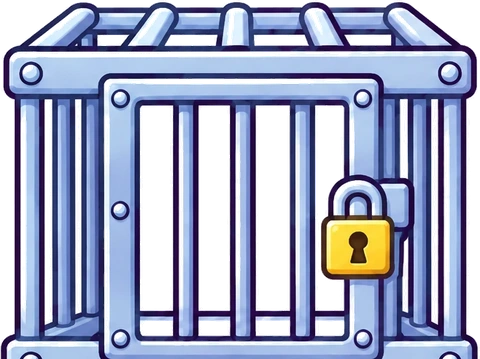
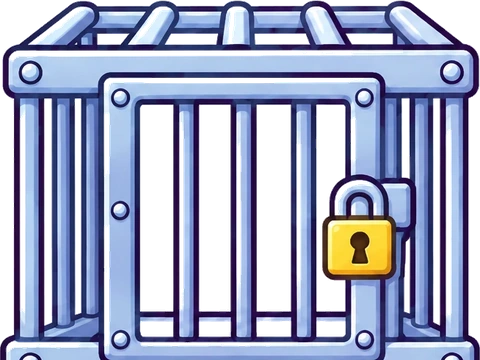
物語:家は白をまぜて明るく・檻は全体を同じようにすかす・札の数字を巻物のふちに・門を少し下(未公開)

Changed region(s): [[0.0, 0.0, 1.0, 1.0], [0.2188, 0.5515, 0.2812, 0.6128]]

diff --git a/src/live2d/storyboard.js b/src/live2d/storyboard.js
@@ -34,7 +34,7 @@ export const PROLOGUE = { id: 'pro', code: 'P', label: 'プロローグ', scenes
     foes: [{ art: 'dragon_2', frames: DRAGON_FLY, fps: 4, h: 30, hTo: 14, from: [26, 14], to: [-30, -12], flip: false }],
     actors: { papa: A(11, { s: BACK, y: BACKY, ...SURPRISE, faces: HOLD('surprised'), cues: [CUE('wave', 0.2, 2.6)], to: { x: -24, y: 78, s: 0.3 } }), mama: A(38, { s: BACK, y: BACKY, ...SURPRISE, faces: HOLD('surprised'), cues: [CUE('wave', 0.2, 2.6)], to: { x: -34, y: 74, s: 0.3 } }), flori: A(74, { s: 1.1, mood: 'しょんぼり', anim: 'sway', calm: true, faces: HOLD('wrong') }) } },
   { bgm: 'sad', dur: 6.4, bg: 'castle', lines: [L('パパフロリ', 'フロリ助けてくれ〜!', 0), L('ママフロリ', 'ひらめきの力を信じてネ!', 3.2)],
-    marks: [{ art: 'fx_cage', alpha: 0.75, at: 0, to: 99, x: 65, y: 88, h: 32, still: true }],
+    marks: [{ art: 'fx_cage', alpha: 0.55, at: 0, to: 99, x: 65, y: 88, h: 32, still: true }],
     actors: { papa: A(55, { y: 0, s: 0.4, mood: 'しょんぼり', faces: HOLD('wrong'), cues: [CUE('wave', 0.5, 2.6)] }), mama: A(75, { y: 6, s: 0.4, mood: 'しょんぼり', faces: HOLD('wrong'), cues: [CUE('wave', 1.2, 2.6)] }) } },
   { bgm: 'resolve', dur: 4.8, bg: 'dusk', lines: [L('フロリ', '任せて! ひらめきクイズでドラゴンを倒してパパとママを助けるヨ!')], hops: HOPS(4, 0.3, 1.2),
     actors: { flori: A(50, { s: 1.6, ...BRAVE, cues: [CUE('cheer', 0.3, 2.6)] }) } },
@@ -82,16 +82,16 @@ export const EP2 = { id: 'ep2', code: '②', label: '②カエル', scenes: [
 ] };
 
 export const EP3 = { id: 'ep3', code: '③', label: '③決戦前', scenes: [
-  { bgm: 'alarm', dur: 6.6, bg: 'gate', card: 'card_ep3', props: [['deco_gate', 51, null, 40, { ground: 17, w: 34 }]], lines: [L('', '第3話「決戦の前に」\nお城の門の前にサソリの門番が塞がっている!')],
+  { bgm: 'alarm', dur: 6.6, bg: 'gate', card: 'card_ep3', props: [['deco_gate', 51, null, 40, { ground: 15, w: 34 }]], lines: [L('', '第3話「決戦の前に」\nお城の門の前にサソリの門番が塞がっている!')],
     foes: [{ art: 'scorpion_guard', frames: ['scorpion_guard', 'scorpion_claws_up'], fps: 2, h: 16, ground: true, delay: 3.0, from: [124, 0], to: [70, 0] }],
     marks: [{ art: 'fx_exclaim', at: 4.4, to: 6.4, x: 28, y: 44, h: 14 }], actors: { flori: A(-40, { s: 1.2, walk: true, delay: 1.6, to: { x: 28 }, faces: [{ at: 0, to: 4.4 }, { at: 4.4, pose: 'surprised' }], cues: [CUE('raise', 4.4, 2.4)], anim: 'shock', animAt: 4.4 }) } },
-  { bgm: 'battle', dur: 4.2, bg: 'gate', props: [['deco_gate', 51, null, 40, { ground: 17, w: 34 }]], lines: [L('フロリ', 'ひらめきを全部ぶつけて… えいっ!')],
+  { bgm: 'battle', dur: 4.2, bg: 'gate', props: [['deco_gate', 51, null, 40, { ground: 15, w: 34 }]], lines: [L('フロリ', 'ひらめきを全部ぶつけて… えいっ!')],
     foes: [{ art: 'scorpion_guard', art2: 'scorpion_hit', swapAt: 1.4, hold: 1.4, h: 16, ground: true, from: [70, 0], to: [118, 0] }], flash: 1.4, shake: [1.4, 0.7], hops: [{ at: 1.2, who: 'flori' }],
     marks: [{ art: 'fx_impact', at: 1.3, to: 2.1, x: 62, y: 80, h: 22 }],
     actors: { flori: A(28, { s: 1.2, ...GRIT, faces: [{ at: 0 }], walk: true, to: { x: 42 } }) } },
-  { bgm: 'joy', dur: 5.4, bg: 'gate', props: [['deco_gate', 51, null, 40, { ground: 17, w: 34 }]], lines: [L('フロリ', 'やった! サソリを追い払ったヨ!', 0), L('フロリ', 'さあお城の奥に進もう!', 2.8)],
+  { bgm: 'joy', dur: 5.4, bg: 'gate', props: [['deco_gate', 51, null, 40, { ground: 15, w: 34 }]], lines: [L('フロリ', 'やった! サソリを追い払ったヨ!', 0), L('フロリ', 'さあお城の奥に進もう!', 2.8)],
     actors: { flori: A(42, { s: 1.2, ...JOY, faces: [{ at: 0, to: 2.8, pose: 'smile' }, { at: 2.8, pose: 'nikkori' }], cues: [CUE('cheer', 0.2, 2.6, 2.6), CUE('flap', 3.0, 2.6)], walk: true, to: { x: 62 } }) } },
-  { bgm: 'walk', dur: 5.4, bg: 'gate', props: [['deco_gate', 51, null, 40, { ground: 17, w: 34 }]], lines: [L('', '門の奥から、ぼうっと赤い光が…。フロリは、そっとお城の中へ進んでいく。')],
+  { bgm: 'walk', dur: 5.4, bg: 'gate', props: [['deco_gate', 51, null, 40, { ground: 15, w: 34 }]], lines: [L('', '門の奥から、ぼうっと赤い光が…。フロリは、そっとお城の中へ進んでいく。')],
     actors: { flori: A(62, { s: 1.2, ...SMILE, faces: HOLD('nikkori'), cues: [CUE('flap', 0.4, 2.6)], walk: true, to: { x: 46, s: 0.7 } }) } },
   { bgm: 'alarm', dur: 5, bg: 'castle', lines: [L('', '警告! お城の奥からドラゴンの声が響く…!')],
     foes: [{ art: 'dragon_5', h: 30, hTo: 46, from: [124, 26], to: [62, 24], flip: false, shake: true }], shake: [0.3, 1.4],
@@ -126,12 +126,12 @@ export const EP4 = { id: 'ep4', code: '④', label: '④ドラゴン', scenes: [
 
 export const ENDING = { id: 'epi', code: 'E', label: 'エンディング', scenes: [
   { bgm: 'warm', dur: 11.0, bg: 'castle', lines: [L('フロリ', 'パパ! ママ! お待たせ!', 0), L('パパフロリ', 'フロリ! 来てくれたんだね!', 3.8), L('ママフロリ', 'きっと来てくれると信じてたわ!', 7.4)],
-    marks: [{ art: 'fx_cage', alpha: 0.75, at: 0, to: 99, x: 65, y: 91, h: 32, still: true }],
+    marks: [{ art: 'fx_cage', alpha: 0.55, at: 0, to: 99, x: 65, y: 91, h: 32, still: true }],
     actors: { flori: A(-40, { s: 1.0, faces: [{ at: 0 }], cues: [CUE('expr', 0.4), CUE('wave', 1.8), CUE('expr', 4.9), CUE('flap', 6.2), CUE('expr', 8.8), CUE('wave', 9.6)], walk: true, len: 2.0, to: { x: 24 } }),
       papa: A(55, { y: 0, s: 0.4, mood: 'こまった', calm: true, faces: [{ at: 0, to: 3.8, pose: 'wrong' }, { at: 3.8, pose: 'smile' }] }),
       mama: A(75, { y: 0, s: 0.4, mood: 'こまった', calm: true, faces: [{ at: 0, to: 7.4, pose: 'wrong' }, { at: 7.4, pose: 'smile' }] }) } },
   { bgm: 'warm', dur: 7.0, bg: 'castle', lines: [L('フロリ', 'カギを手に入れたよ! 今から出すね!', 0), L('フロリ', 'えいっ! 檻が開いたヨ!', 4.2)],
-    marks: [{ art: 'fx_cage', alpha: 0.75, at: 0, to: 5.0, x: 65, y: 91, h: 32, still: true }],
+    marks: [{ art: 'fx_cage', alpha: 0.55, at: 0, to: 5.0, x: 65, y: 91, h: 32, still: true }],
     foes: [{ art: 'key', h: 9, ground: true, len: 3.2, until: 5.0, from: [30, 19], to: [38, 19] }],
     actors: { flori: A(18, { s: 0.9, faces: [{ at: 0 }], handSide: 'L', cues: [CUE('raise1', 0.2), CUE('expr', 4.0, 1.8)], walk: true, len: 3.2, to: { x: 26 } }),
       papa: A(55, { y: 0, s: 0.4, mood: 'こまった', calm: true, faces: HOLD('smile') }), mama: A(75, { y: 0, s: 0.4, mood: 'こまった', calm: true, faces: HOLD('smile') }) } },

diff --git a/src/live2d/story-movie.html b/src/live2d/story-movie.html
@@ -49,8 +49,7 @@ body{font:16px system-ui,"Hiragino Sans","Yu Gothic",sans-serif;user-select:none
 #card{display:none;position:absolute;left:50%;top:calc(var(--u)*12);width:84%;transform:translateX(-50%);opacity:0;z-index:4;filter:drop-shadow(0 calc(var(--u)*.6) calc(var(--u)*.8) rgba(0,0,0,.3))}
 #card-bg{display:block;width:100%;height:auto}
 #card-text{position:absolute;display:flex;flex-direction:column;align-items:center;justify-content:center;text-align:center;font-family:"Zen Maru Gothic","Hiragino Maru Gothic ProN","Yu Gothic UI",sans-serif;font-weight:900;gap:calc(var(--u)*.2);line-height:1.15}
-#card-no{display:flex;align-items:center;justify-content:center;gap:calc(var(--u)*1.2);white-space:nowrap;font-size:calc(var(--u)*8.2);letter-spacing:.08em;color:#ff7a4d;-webkit-text-stroke:calc(var(--u)*1.1) #fff;paint-order:stroke fill;text-shadow:0 calc(var(--u)*.5) 0 #c85a2a}
-#card-no::before,#card-no::after{content:"";flex:0 0 calc(var(--u)*5);height:calc(var(--u)*.9);border-radius:99px;background:#ff7a4d;box-shadow:0 0 0 calc(var(--u)*.35) #fff,0 calc(var(--u)*.45) 0 calc(var(--u)*.35) #c85a2a}
+#card-no{position:relative;top:calc(var(--u)*-5.2);white-space:nowrap;font-size:calc(var(--u)*8.2);letter-spacing:.08em;color:#ff7a4d;-webkit-text-stroke:calc(var(--u)*1.1) #fff;paint-order:stroke fill;text-shadow:0 calc(var(--u)*.5) 0 #c85a2a}
 #card-name{text-wrap:balance;font-size:calc(var(--u)*4.7);color:#6a3f22;-webkit-text-stroke:calc(var(--u)*.9) #fff;paint-order:stroke fill;text-shadow:0 calc(var(--u)*.4) 0 rgba(160,110,60,.55)}
 #card.show{animation:cardIn 3.4s ease forwards}
 @keyframes cardIn{0%{opacity:0;transform:translate(-50%,calc(var(--u)*-3))}12%{opacity:1;transform:translate(-50%,0)}80%{opacity:1}100%{opacity:0}}

diff --git a/src/live2d/story-movie.js b/src/live2d/story-movie.js
@@ -216,7 +216,7 @@ function setScene(i) {
   for (const d of bgsEl.children) { if (d.dataset.bg === sc.bg) ensureBg(d); d.style.opacity = d.dataset.bg === sc.bg ? 1 : 0; }
   // 場面が かわるときの 暗転は、やめた(利用者の指示)   // 場面が かわるとき、暗転ぎみに つなぐ
   prevBg = sc.bg;
-  props.innerHTML = (sc.props || []).map(([art, x, y, h, o]) => `<img class="prop" alt="" src="${artUrl(art)}" style="${art === 'house' ? 'filter:brightness(1.5) contrast(.82) saturate(.95);' : ''}left:${x}%;${o?.ground !== undefined ? `bottom:calc(var(--u)*${GROUND + o.ground})` : `top:calc(var(--u)*${y})`};height:calc(var(--u)*${h});${o?.w ? `width:calc(var(--u)*${o.w})` : ''}">`).join('');
+  props.innerHTML = (sc.props || []).map(([art, x, y, h, o]) => `<img class="prop" alt="" src="${artUrl(art)}" style="left:${x}%;${o?.ground !== undefined ? `bottom:calc(var(--u)*${GROUND + o.ground})` : `top:calc(var(--u)*${y})`};height:calc(var(--u)*${h});${o?.w ? `width:calc(var(--u)*${o.w})` : ''}">`).join('');
   koma.textContent = `${movie.code}${i + 1}`;
   title.innerHTML = sc.titleArt ? `<img alt="" src="${artUrl(sc.titleArt)}">` : (sc.title || '');
   title.classList.toggle('on', Boolean(sc.title || sc.titleArt));

diff --git a/docs/decisions.md b/docs/decisions.md
@@ -1800,3 +1800,4 @@ scheme.md の「未定の事項」を決めたらここに追記する。
 - 版は、furigana 系・main.js・ムービーを `20261118a` に上げた(司会が出した `20261117z` より新しい値)。
 - 追記(B、2026-11-18)利用者の指示:家をもっと大きく・明るく(ムービーの中で brightness)。札の文字を もっと大きく・かわいく(丸ゴシック・ふちどり・オレンジの数字)。門(deco_gate)を、指定の位置・大きさ(x46%・高さ30)に置き、ふちの白いがびがびを取った。檻の場面のたいまつを取り、檻を少しすかした(alpha 0.82。`storyboard.js` の marks `alpha`)。
 - 追記(B、2026-11-18)門を すこし右(x51)・たてに のばし(高さ40・はば34。`storyboard.js` の props `w`)・たいまつ2つを とった。札は「ーー第1話ーー」の形。家は もっと明るく(brightness 1.5)。檻:絵を つくりなおして(白い ふちの半とうめいを やめ、すきまだけ とうめい)、パパ・ママが うすく見えないようにした(パパ・ママ自身は すかしていない=不透明度1。檻だけ 0.75)。
+- 追記(B、2026-11-18、やりなおし)門を すこし下へ(ground 15)。札:「ーー」をやめて、「第N話」を、巻物の上のふちの まん中に ちょっと かさねた。家:ほかの色をのせずに、絵そのものに 白だけを5割まぜて 明るく(`house.webp`。CSSのフィルターは やめた)。檻:絵の色は そのまま(端の色を とらない)。背景と すきまの白だけ とうめいにして、檻ぜんたいを おなじように すかす(alpha 0.55)。
